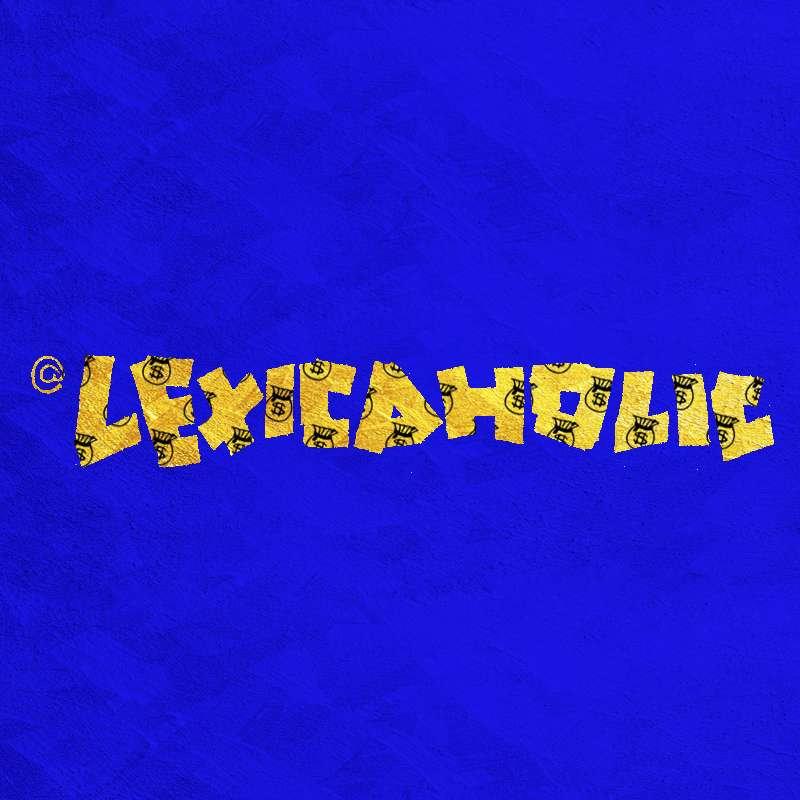
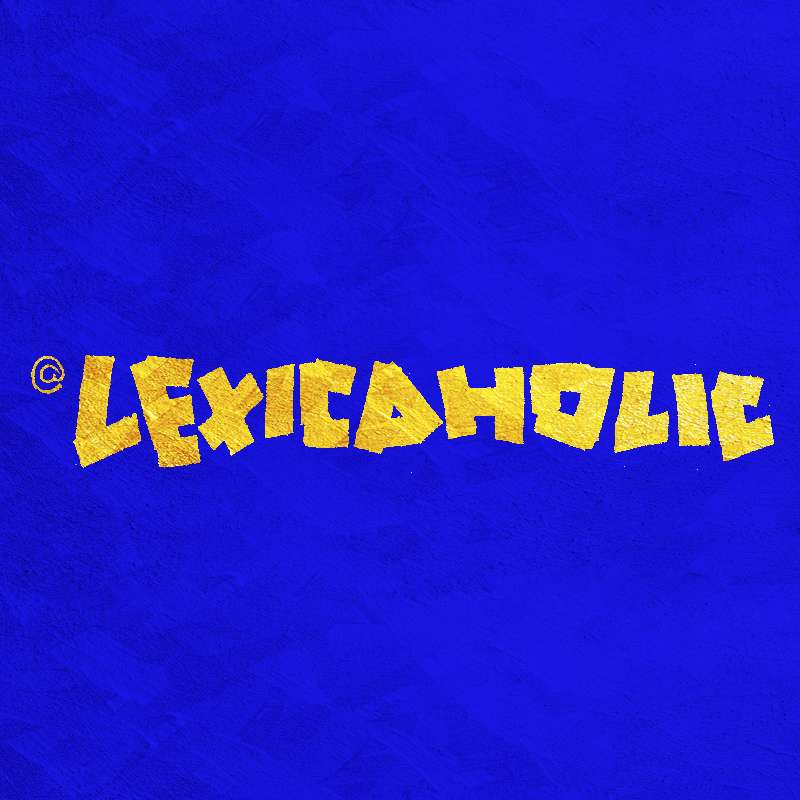
restore front-ground image; improve readme picture style

diff --git a/README.md b/README.md
@@ -10,9 +10,9 @@ A online tool to feature your black white avatars and [here](http://www-scf.usc.
 
 1. More background colors besides original **Real Red**:
 	- **Why White**
-	- **Back Black**
+	- **Box Black**
 	- **Great Green**
-	- **Blah Blue**
+	- **Boo Blue**
 2. Improved frontground color **Yolo Yellow**
 3. Donation QR code provided for benefitted users.
 4. Redesigned UI.
@@ -21,22 +21,22 @@ A online tool to feature your black white avatars and [here](http://www-scf.usc.
 ## Source Images
 | Foreground | Background |
 |:-------------:|:-------------:|
-|<img src="img/fr800.jpg" width=250>|<img src="img/bk800.jpg" width=250>|
+|<img src="img/fr800.jpg" width=250 style="border:1px solid #eee">|<img src="img/bk800.jpg" width=250 style="border:1px solid #eee">|
 
 ## An Example
 Given image uploaded:
 
-<img src="demo/Lexicaholic.jpg" width=250>
+<img src="demo/Lexicaholic.jpg" width=250 style="border:1px solid #eee">
 
 a user can select background color to generate corresponding image:
 
 | Background Color | Generated Image |
 |:-------------:|:-------------:|
-|Why White|<img src="demo/w_Lexicaholic.jpg" width=250>|
-|Back Black|<img src="demo/k_Lexicaholic.jpg" width=250>|
-|Real Red|<img src="demo/r_Lexicaholic.jpg" width=250>|
-|Blah Blue|<img src="demo/b_Lexicaholic.jpg" width=250>|
-|Great Green|<img src="demo/g_Lexicaholic.jpg" width=250>|
+|Why White|<img src="demo/w_Lexicaholic.jpg" width=250 style="border:1px solid #eee">|
+|Back Black|<img src="demo/k_Lexicaholic.jpg" width=250 style="border:1px solid #eee">|
+|Real Red|<img src="demo/r_Lexicaholic.jpg" width=250 style="border:1px solid #eee">|
+|Blah Blue|<img src="demo/b_Lexicaholic.jpg" width=250 style="border:1px solid #eee">|
+|Great Green|<img src="demo/g_Lexicaholic.jpg" width=250 style="border:1px solid #eee">|
 
 ## Note
 1. Optimized for mobile end.
